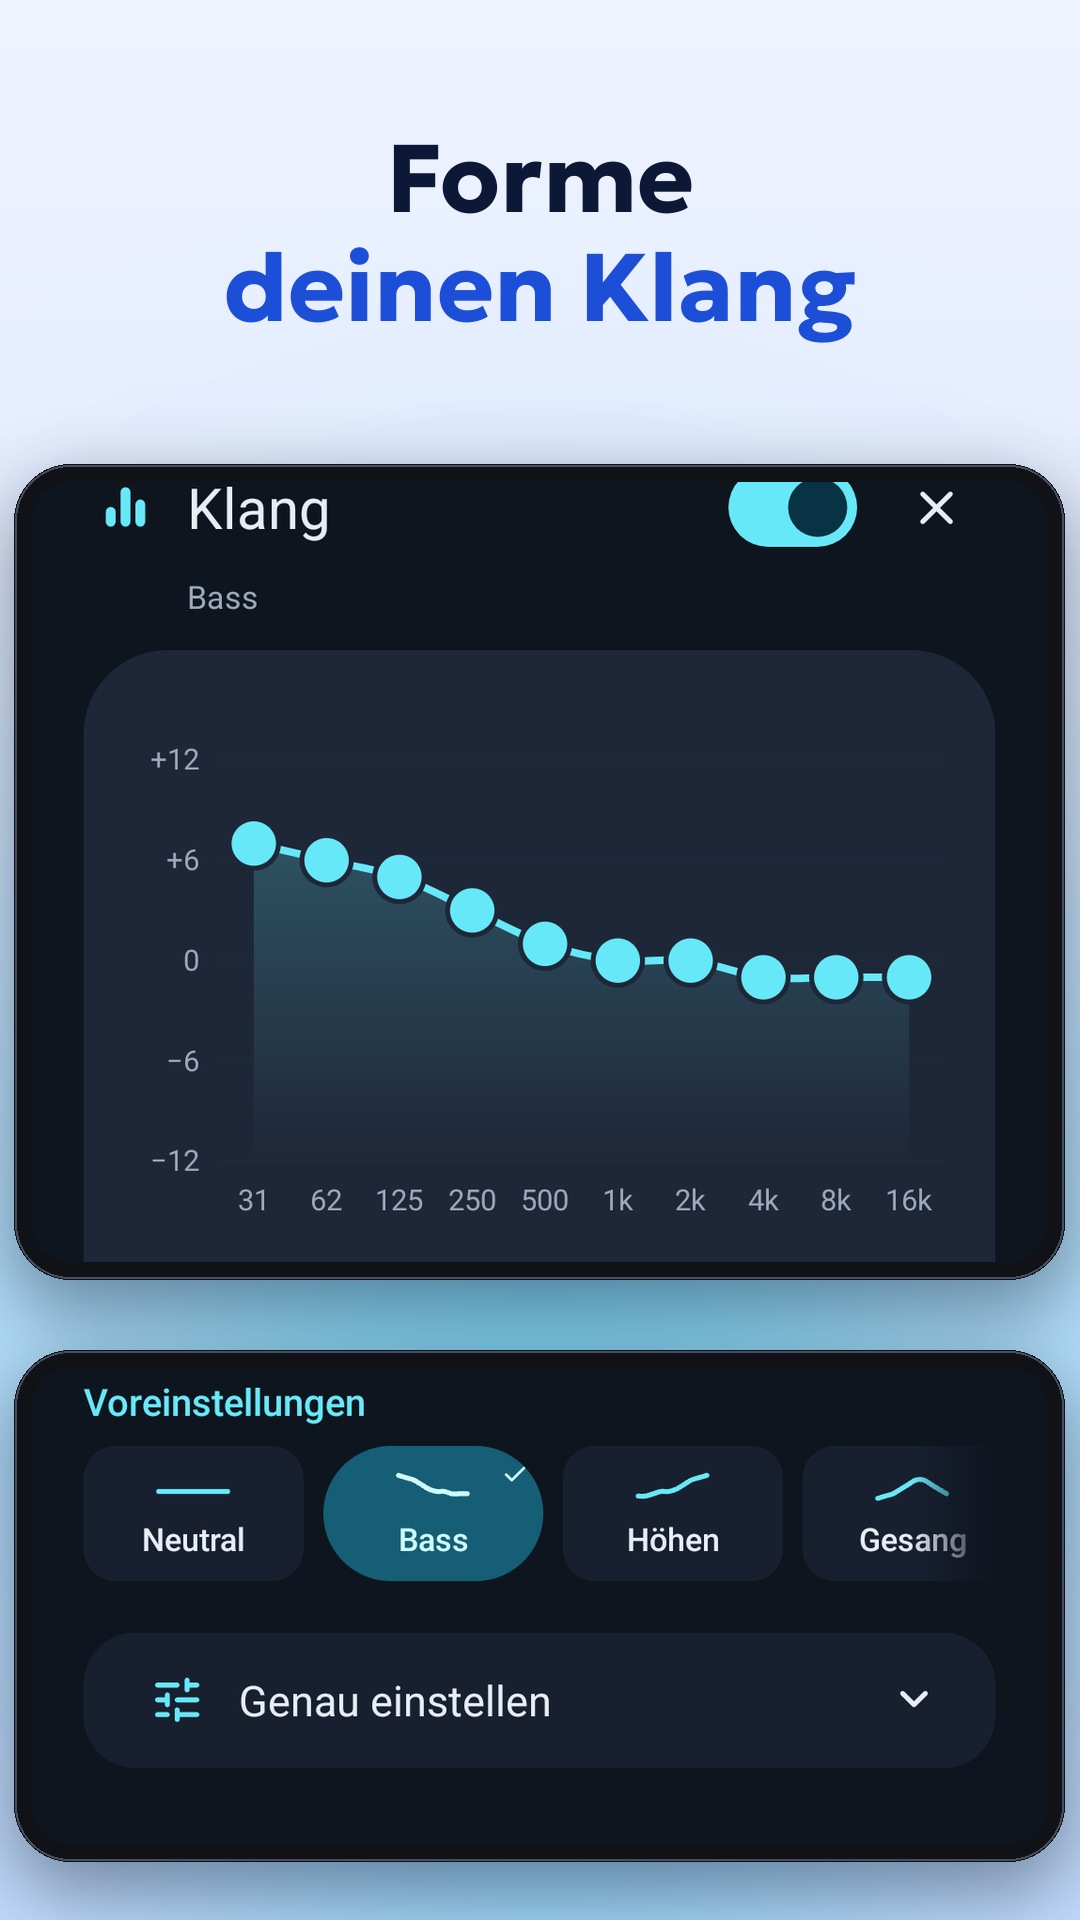
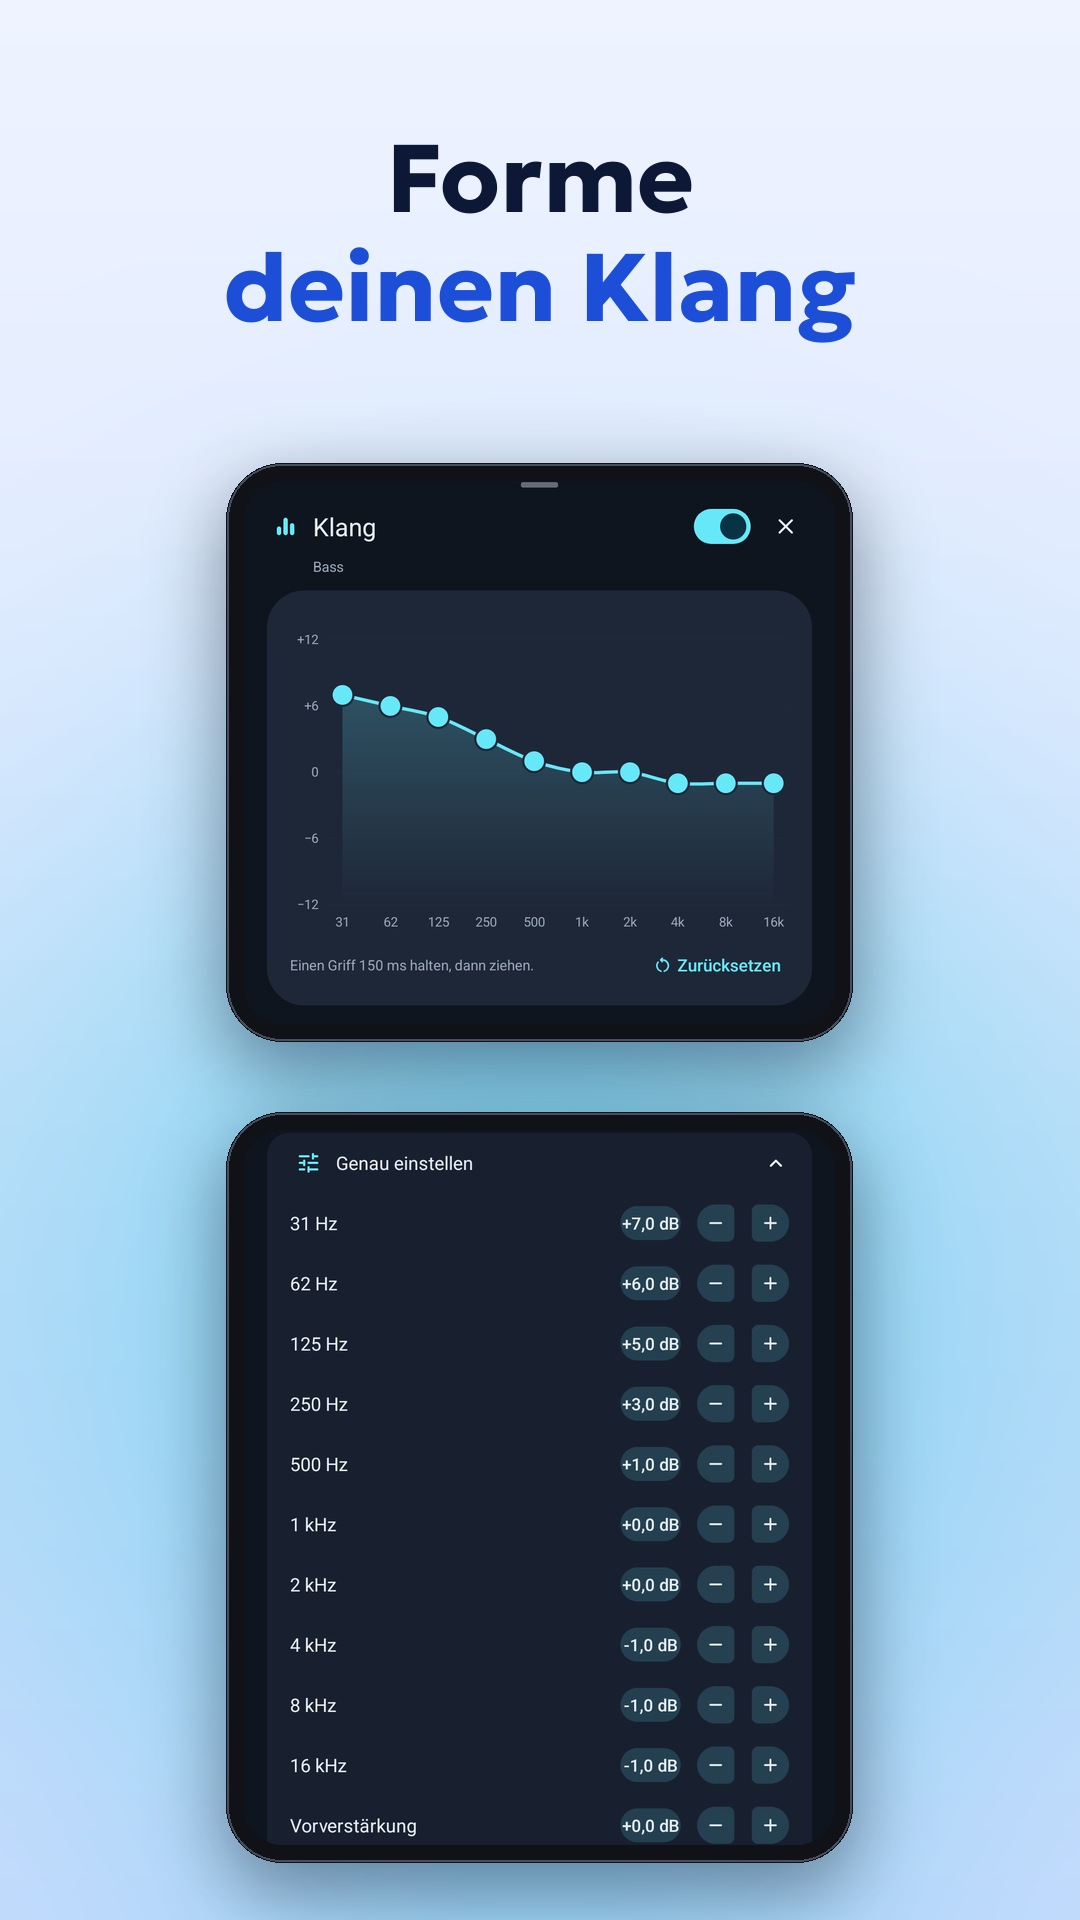
store: Klang-Bild zeigt den ganzen Equalizer
Phone shot 08_sound now shows the curve plus all ten bands and the pre-gain
(Fine-tune expanded). capture.sh takes the extra shot sound-eq and accepts
PHONE_H/PHONE_DPI (captured at 1080x3000, 320 dpi); compose.py shrinks a
stack that would run off the canvas instead of cutting it.

Claude-Session: https://claude.ai/code/session_01MwZiGHMetnikLtK5FfgZy9

diff --git a/utils/store-images/compose.py b/utils/store-images/compose.py
@@ -144,8 +144,10 @@ def trio(im, top, shots, k):
 def stack(im, top, shots, k):
     """Wide shots one above the other, whole, centred in the space below the headline."""
     W, H = im.size
-    devs = [device(s, round(W * 0.94), k["radius"] * 2 // 3, k["bezel"]) for s in shots]
     gap = 70
+    # Tall parts (a whole equalizer) shrink until the stack fits below the headline instead of running off.
+    fit = (H - top - round(H * 0.06) - gap * (len(shots) - 1) - 2 * k["bezel"] * len(shots)) / sum(s.height / s.width for s in shots)
+    devs = [device(s, round(min(W * 0.94, fit)), k["radius"] * 2 // 3, k["bezel"]) for s in shots]
     y = top + (H - top - sum(d.height - 2 * p for d, p in devs) - gap * (len(devs) - 1)) // 2
     for dev, pad in devs:
         put(im, dev, pad, (W - dev.width + 2 * pad) // 2, y)
